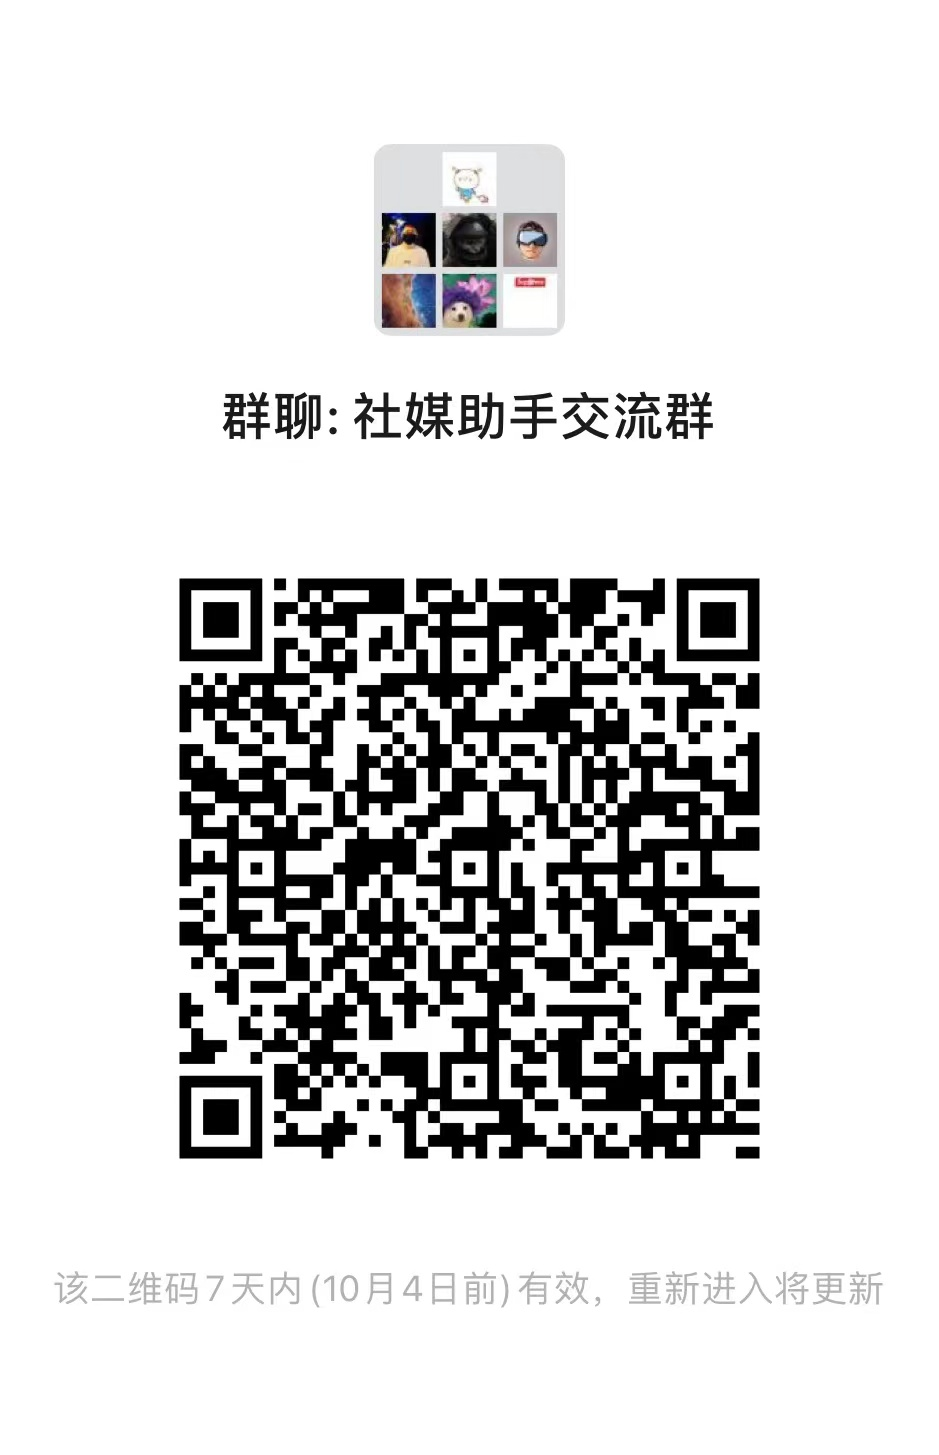
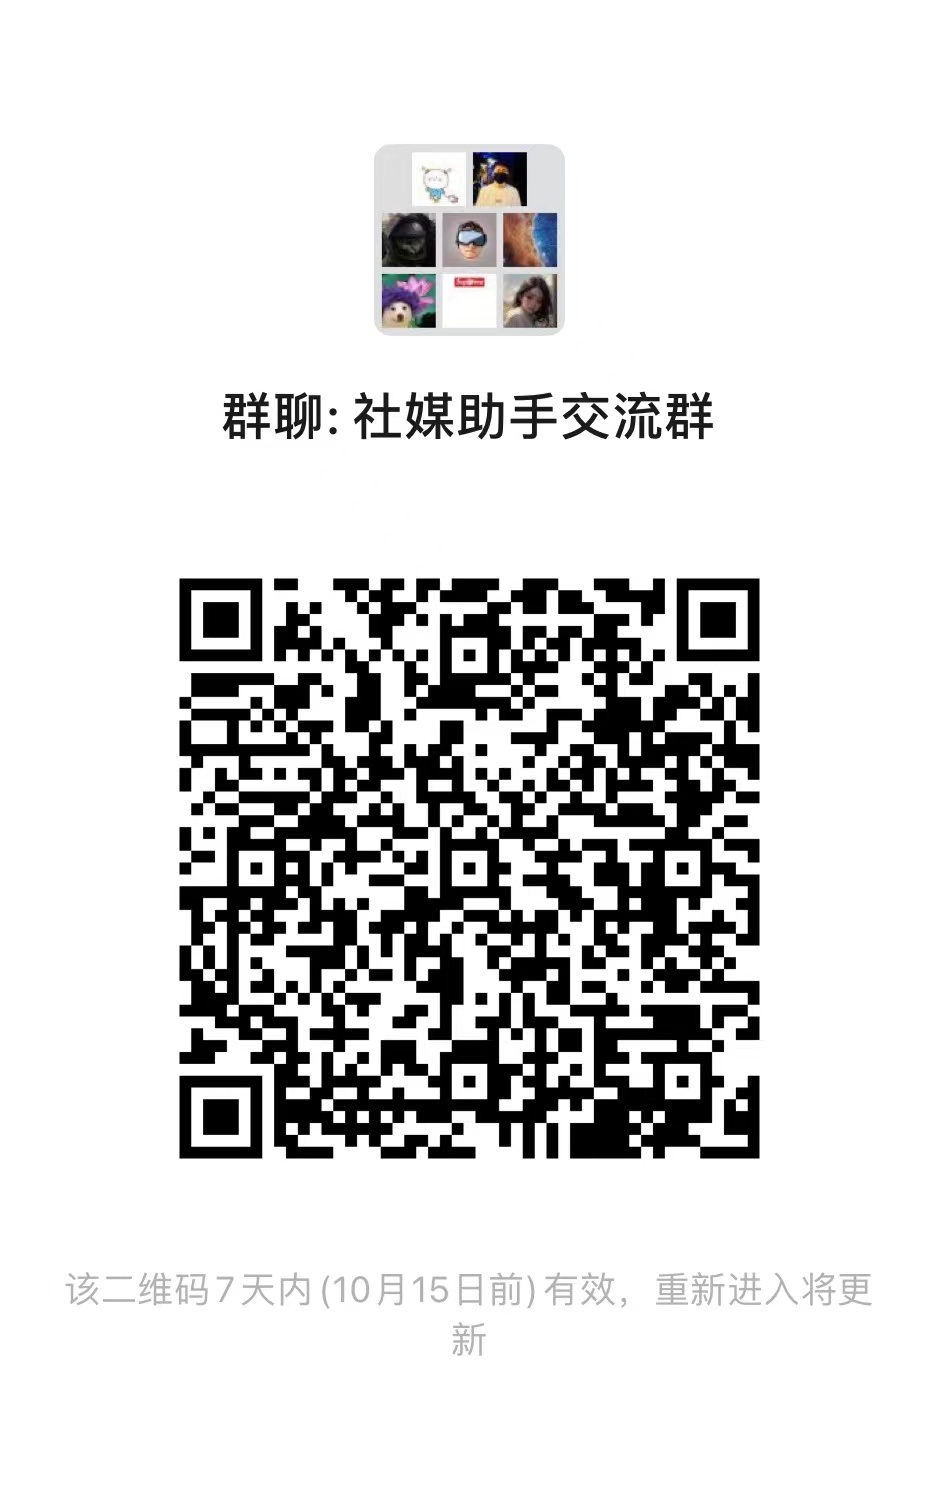
docs: update wechat group qrcode

Changed region(s): [[0.1853, 0.3711, 0.8339, 0.8041], [0.2162, 0.0928, 0.7721, 0.3093], [0.0618, 0.8351, 0.9574, 0.8969]]

diff --git a/README.md b/README.md
@@ -60,19 +60,17 @@ pnpm dev
 
 群组链接：[https://t.me/SocialMediaCopilot](https://t.me/SocialMediaCopilot)
 
-> 建议优先加Telegram群
-
 ### QQ交流群
 
-<img width="500px" src="docs/images/QQ群二维码.png" />
+<img width="400px" src="docs/images/QQ群二维码.png" />
 
 ### 微信交流群
 
-<img width="500px" src="docs/images/微信群二维码.png" />
+<img width="400px" src="docs/images/微信群二维码.png" />
 
 > 如二维码已失效，可加作者微信。记得备注来意
 
-<img width="500px" src="src/assets/images//wechat-qr-code.png" />
+<img width="400px" src="src/assets/images//wechat-qr-code.png" />
 
 ## 免责声明
 
@@ -86,7 +84,7 @@ pnpm dev
 
 ### v0.0.2
 
- -  支持小红书和抖音平台一键跳转到商业平台
+ - 支持小红书和抖音平台一键跳转到商业平台
  - 支持小红书和抖音平台根据创作者ID或链接导出创作者信息和作品数据
  - 在小红书和抖音平台的博主/达人详情页植入便捷操作
 
